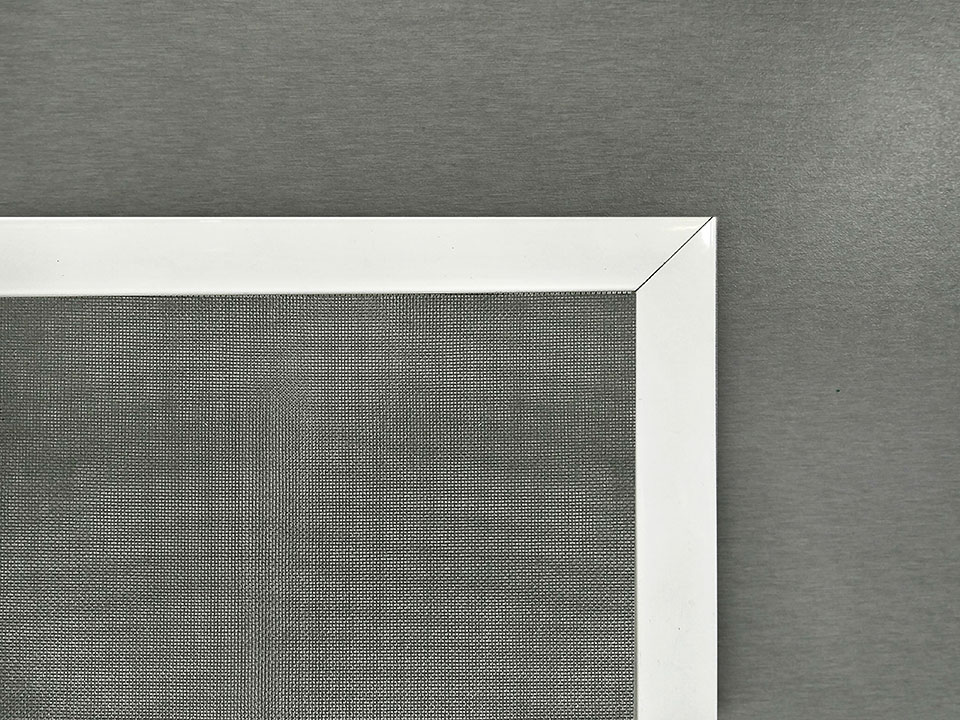
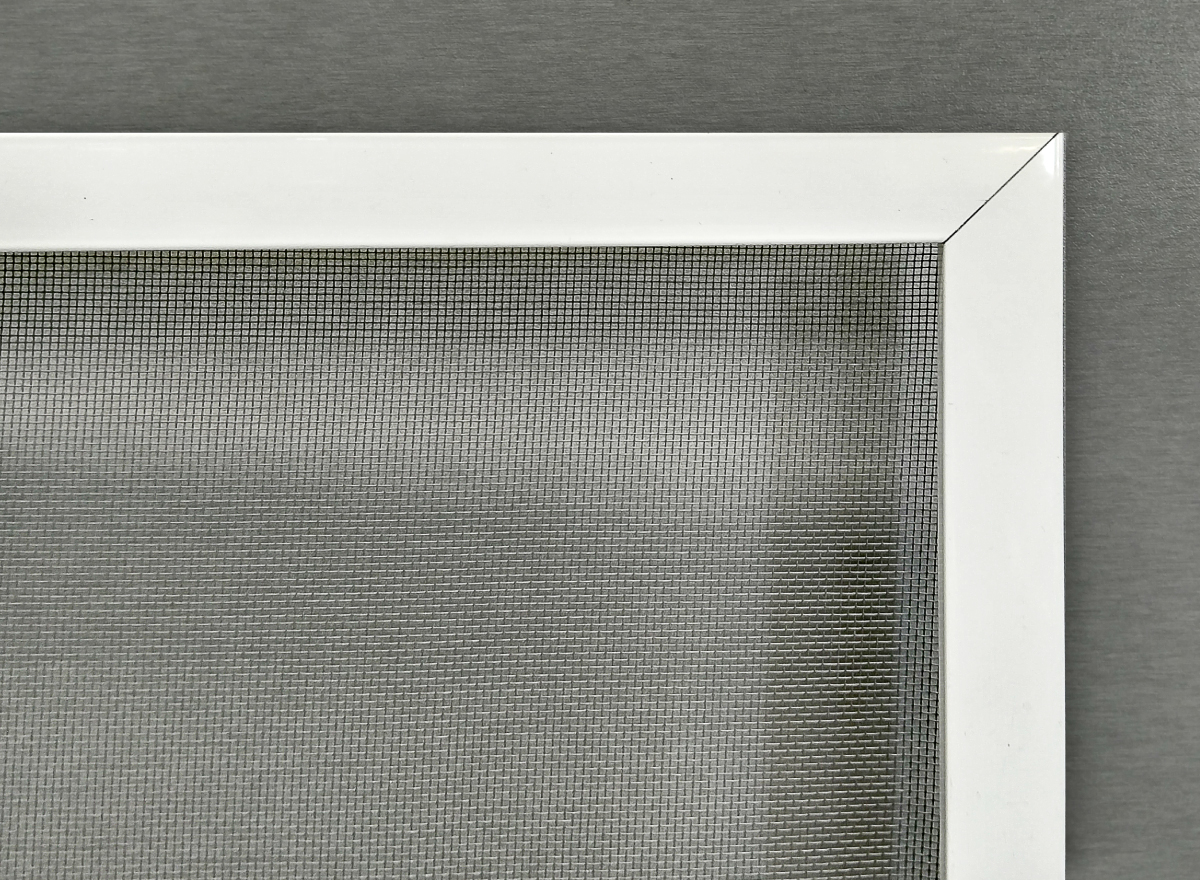
Заменил фотки в блоке Москитные сетки

diff --git a/rusokon/index-2.html b/rusokon/index-2.html
@@ -962,7 +962,7 @@
 								<div class="uk-card-media-top">
 									<div class="uk-inline">
 										<img class="uk-position-small uk-position-bottom-left" src="images/icon-antip-1.svg" alt="Антипыльца">
-										<img src="images/stand-1.jpg" alt="Антипыльца">
+										<img src="images/stand-11.jpg" alt="Антипыльца">
 									</div>
 								</div>
 								<div class="uk-card-body">
